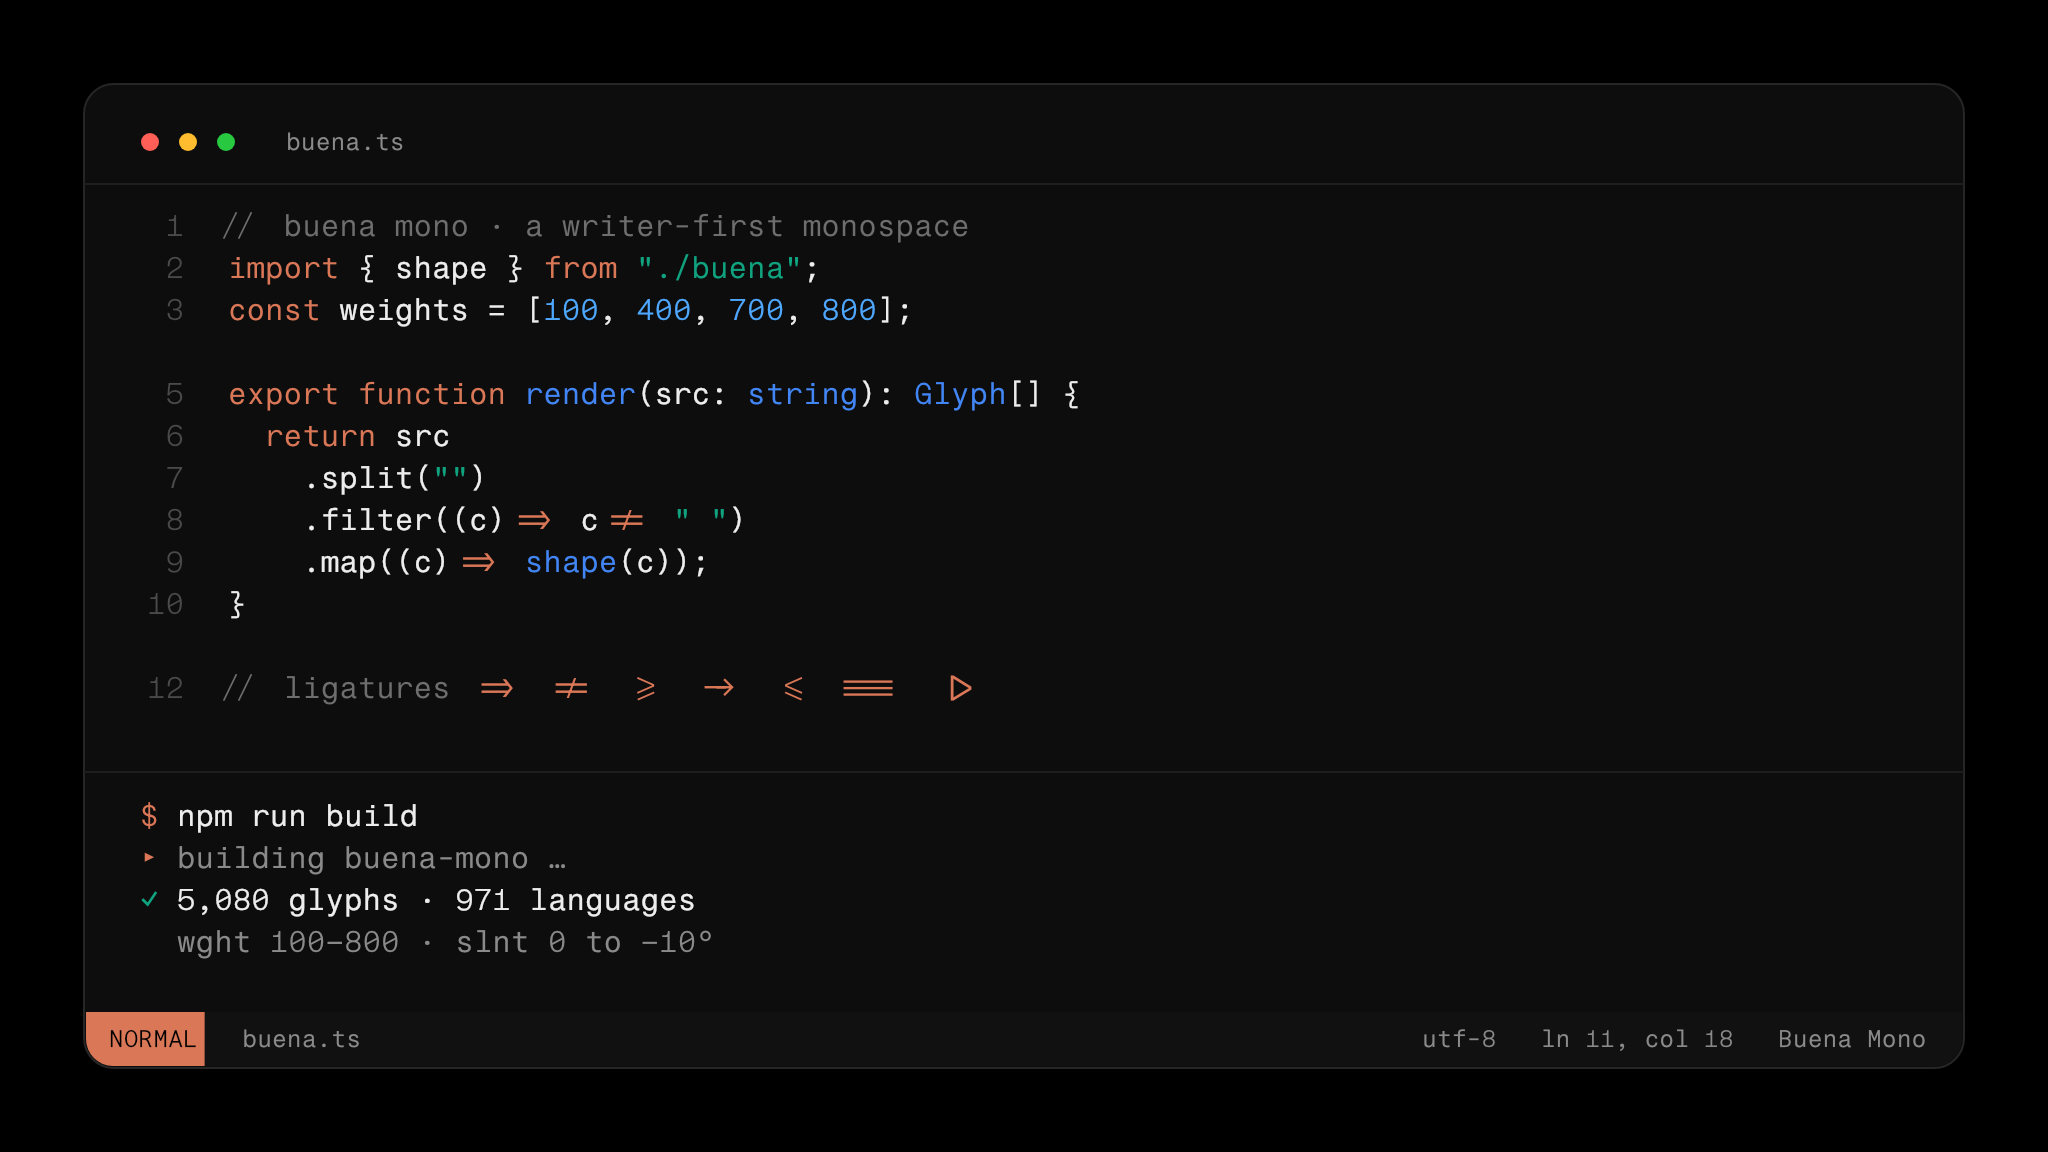
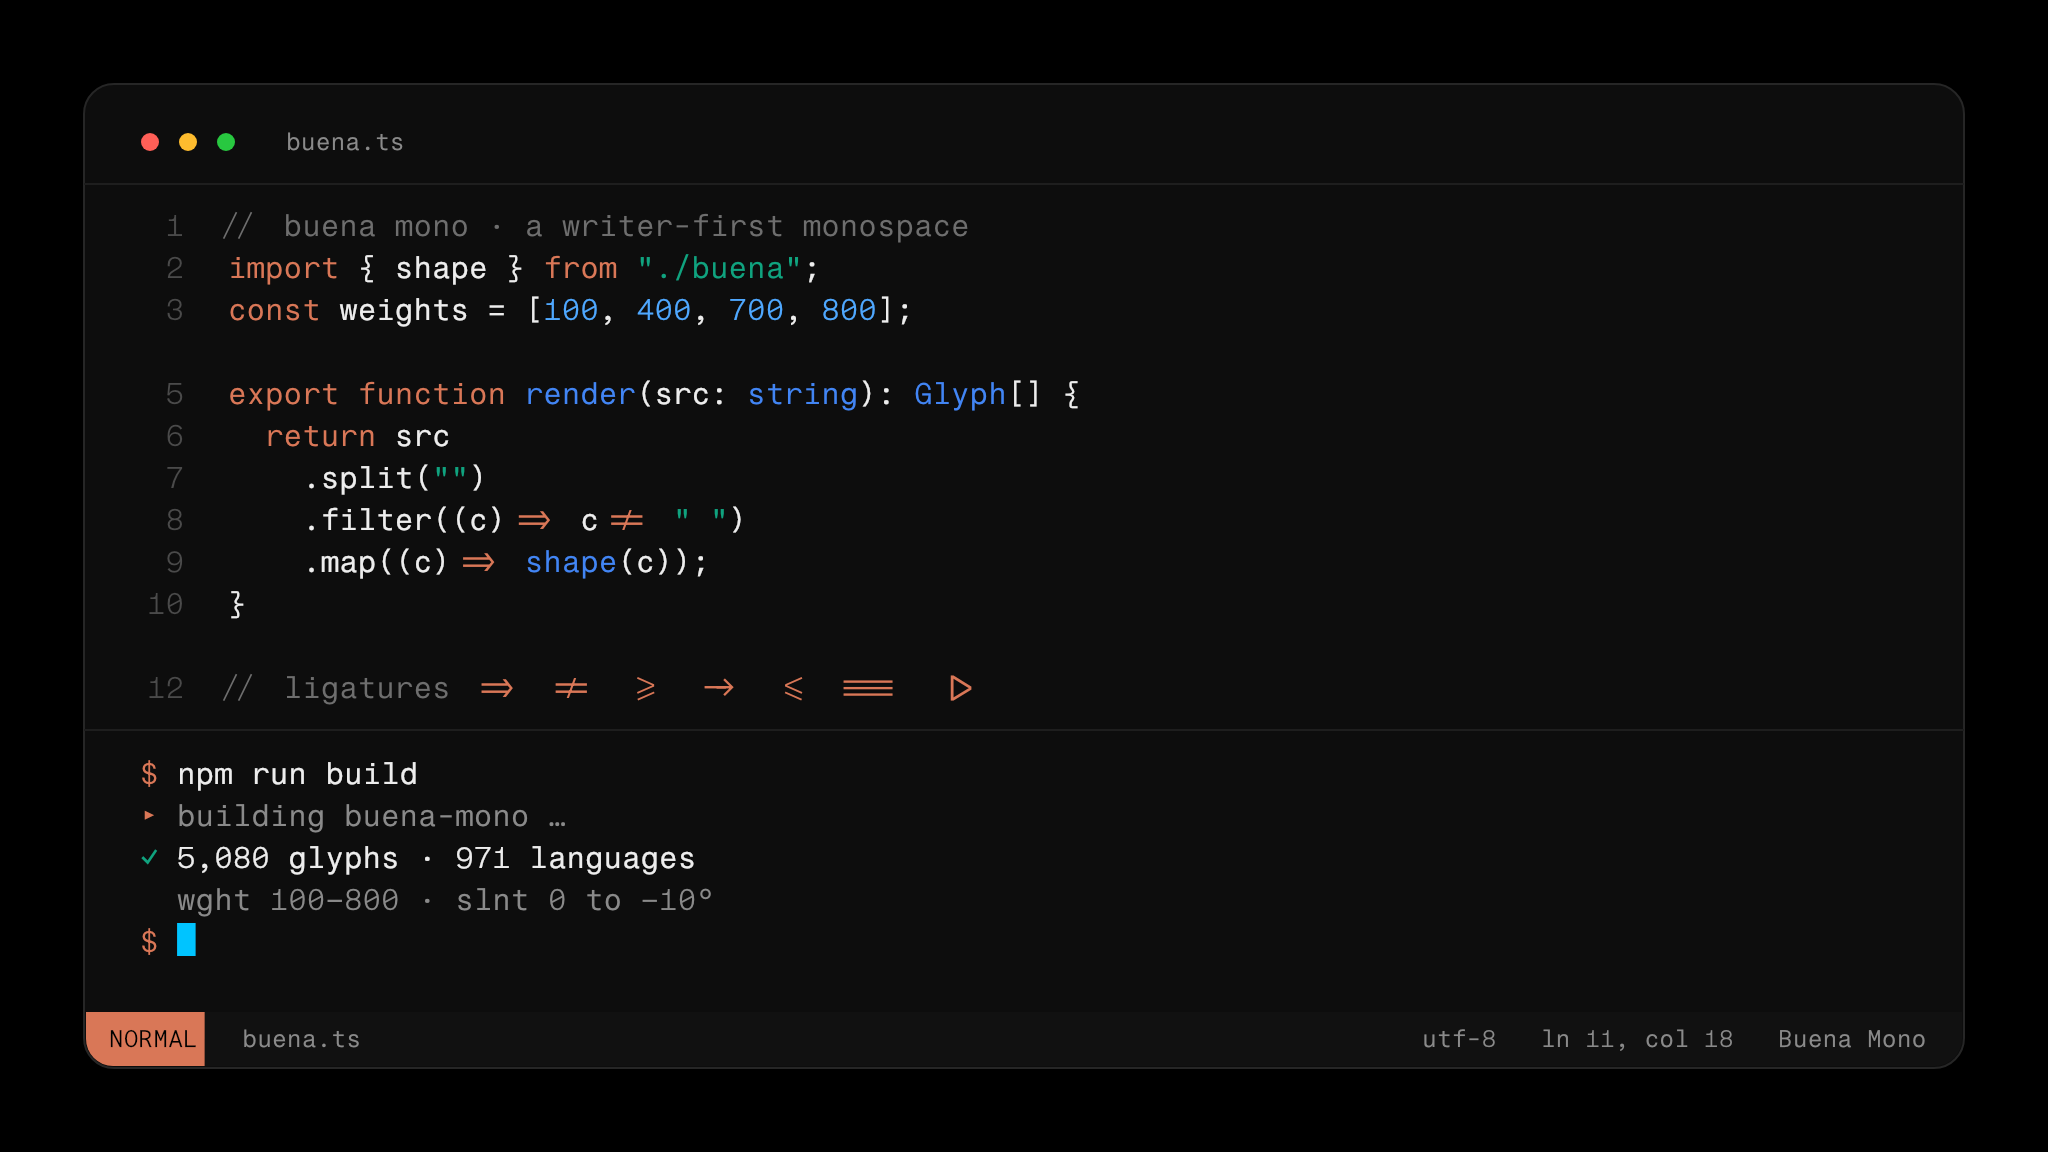
docs: add a live caret ('$ ' + cyan block cursor) to the cli terminal

Changed region(s): [[0.0625, 0.6562, 0.3438, 0.8438]]

diff --git a/docs/cli.py b/docs/cli.py
@@ -33,6 +33,7 @@ FN      = hx("4285f4")   # functions / types (blue)
 NUM     = hx("4fa8ff")   # numbers (light blue)
 TERRA   = hx("d97757")
 GREEN   = hx("10a37f")
+CARET   = hx("00c4ff")   # live caret / block cursor
 RED     = hx("ff5f57")   # traffic lights
 YEL     = hx("febc2e")
 GRN_DOT = hx("28c840")
@@ -145,7 +146,7 @@ def main():
         top += lineH
 
     # --- terminal band: pinned above the statusline, divider above it ---
-    term_h = len(TERM) * lineH + 24
+    term_h = (len(TERM) + 1) * lineH + 24   # +1 line for the live prompt
     term_bottom = win_bot - BAR_H - 30     # keep clear of the statusline
     term_top = term_bottom - term_h
     stroke(*HAIR); strokeWidth(2)
@@ -155,6 +156,10 @@ def main():
     for row in TERM:
         run(row, t, wx + PAD)
         t += lineH
+    # live prompt with a caret-cyan block cursor
+    run([("$ ", KW)], t, wx + PAD)
+    fill(*CARET)
+    rect(wx + PAD + 2 * charW, HEIGHT - t - 4, charW, SIZE * 1.1)
 
     # --- statusline: terracotta NORMAL block + file, right-aligned meta ---
     bar_y = wy + 2                         # just inside the bottom border

diff --git a/docs/marketing_svg.py b/docs/marketing_svg.py
@@ -118,16 +118,20 @@ def cli():
             body.append(code_line(gx, y, S, row))
         ln += 1; y += int(S*1.4)
     # terminal
-    body.append(rect(wx, wy+700, ww, 2, "#1e1e1e"))
+    body.append(rect(wx, wy+686, ww, 2, "#1e1e1e"))
     term = [
         [("$", K), (" npm run build", F)],
         [("> ", K), ("building buena-mono ...", PAL["muted"])],
         [("+ ", ST), ("5,080 glyphs · 971 languages", F)],
         [("  wght 100-800 · slnt 0 to -10°", PAL["muted"])],
     ]
-    ty = wy + 764
+    ty = wy + 726
     for row in term:
         body.append(code_line(wx+56, ty, S, row)); ty += int(S*1.4)
+    # live prompt with a caret-cyan block cursor
+    body.append(code_line(wx+56, ty, S, [("$ ", K)]))
+    cwv = S * ADV
+    body.append(rect(wx+56 + int(2*cwv), ty - 26, int(cwv), int(S*1.1), PAL["caret"]))
     # statusline
     body.append(f'<rect x="{wx+2}" y="{wy+928}" width="{ww-4}" height="54" rx="0" fill="#111111"/>')
     body.append(rect(wx+2, wy+928, 150, 54, PAL["terra"]))
